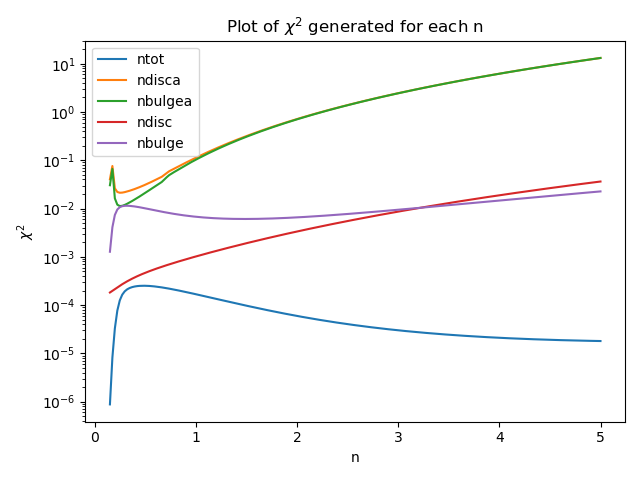
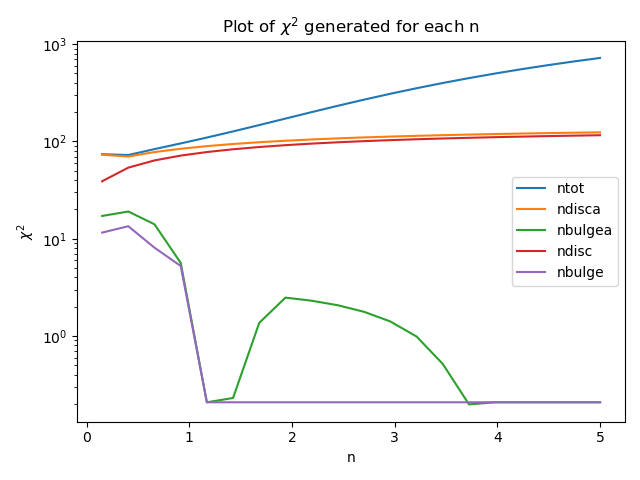
Fixed Chisqrd Plots

diff --git a/RadialProfile.py b/RadialProfile.py
@@ -30,7 +30,9 @@ def radial_profile(image, center):
 	nr=np.bincount(r.ravel()) #no in each radius bin
 	radialprofile=(tbin)/(nr)
 	stdbins, bin_edges, binnumber=stats.binned_statistic(r.ravel(),image.ravel(), 'std', bins=len(radialprofile))
-	stdbins[0]=stdbins[1]
+	countbins, bin_edges, binnumber=stats.binned_statistic(r.ravel(),image.ravel(), 'count', bins=len(radialprofile))
+	#stdbins=stdbins/countbins
+	stdbins[0:4]=np.max(stdbins)
 	stdbins[stdbins<0.01]=0.01
 	radialprofile, r_arr, binnumber=stats.binned_statistic(r.ravel(),image.ravel(), 'mean', bins=len(radialprofile))
 	return radialprofile, stdbins, r_arr, nr
@@ -164,7 +166,7 @@ def run_radial_profile(image, imagefile, sim_name):
 
 	
 	
-	poptdisca, pcovdisca=curve_fit(SersicProfilea, r[bindex:hindex], rad[bindex:hindex], p0=(i_e, r_e, 1,0), bounds=((i_e-1,r_e-0.1,0,0), (i_e+1,r_e+0.1,2,20)), sigma=stdbins[bindex:hindex], absolute_sigma=True)
+	poptdisca, pcovdisca=curve_fit(SersicProfilea, r[bhindex:hindex], rad[bhindex:hindex], p0=(i_e, r_e, 1,0), bounds=((i_e-1,r_e-0.1,0,0), (i_e+1,r_e+0.1,2,20)), sigma=stdbins[bhindex:hindex], absolute_sigma=True)
 	n_disca=poptdisca[2]
 	print("I_edisca={}, R_edisca={}, n_disca={}, adisca={}".format(poptdisca[0], poptdisca[1], n_disca, poptdisca[3]))
 	isolated_discsima=SersicProfilea(r, poptdisca[0], poptdisca[1],n_disca,poptdisca[3])
@@ -209,27 +211,41 @@ def run_radial_profile(image, imagefile, sim_name):
 	nbulgea=[]
 	ntot=[]
 	chistot=[]
-	for n in np.linspace(0.15,5.0, 200):
+	for n in np.linspace(0.15,5.0, 100):
 		n1, pcov1 = curve_fit(lambda x,n: SersicProfile(x, i_e, r_e, n), r, rad, p0=n, bounds=(n-0.001,n+0.001), sigma=stdbins, absolute_sigma=True)
 		n1=n1[0]
-		n1_error=pcov1[0,0]
-
-		poptdisc, pcovdisc = curve_fit(lambda x,n: SersicProfile(x, i_e, r_e, n), r[bindex:bhindex], rad[bindex:bhindex], sigma=stdbins[bindex:bhindex], p0=n, bounds=(n-0.001,n+0.001), absolute_sigma=True)
+		res= rad - SersicProfile(r, i_e,r_e,n)
+		n1_error=np.sqrt(sum((res[bindex:bhindex]/stdbins[bindex:bhindex])**2))
+		#n1_error=pcov1[0,0]
+		
+		poptdisc, pcovdisc = curve_fit(lambda x,ni: SersicProfile(x, i_e, r_e, ni), r[bhindex:hindex], rad[bhindex:hindex], sigma=stdbins[bhindex:hindex], p0=n, bounds=(n-0.001,n+0.001), absolute_sigma=True)
 		n_disc=poptdisc[0]
-		n_disc_error=pcovdisc[0,0]
-		poptbulge, pcovbulge = curve_fit(lambda x,n: SersicProfile(x, i_ebulge, r_ebulge, n), r[0:bindex], isolated_bulge[0:bindex],p0=n, sigma=stdbins[0:bindex], bounds=(n-0.001,n+0.001), absolute_sigma=True)
+		#n_disc_error=pcovdisc[0,0]	
+		isolated_discsim=SersicProfile(r, i_e, r_e, n)
+		res= rad- isolated_discsim
+		n_disc_error=np.sqrt(sum((res[bhindex:hindex]/stdbins[bhindex:hindex])**2))
+		poptbulge, pcovbulge = curve_fit(lambda x,ni: SersicProfile(x, i_ebulge, r_ebulge, ni), r[0:bindex], isolated_bulge[0:bindex], sigma=stdbins[0:bindex], p0=n, bounds=(n-0.001,n+0.001), absolute_sigma=True)
 		n_bulge= poptbulge[0]
-		n_bulge_error= pcovbulge[0,0]
-	
+		#n_bulge_error= pcovbulge[0,0]
+		res= rad - SersicProfile(r, i_ebulge, r_ebulge, n_bulge)
+		n_bulge_error=np.sqrt(sum((res[0:int(bindex/2)]/stdbins[0:int(bindex/2)])**2))
+		
 		poptdisca, pcovdisca=curve_fit(SersicProfilea, r[bindex:hindex], rad[bindex:hindex], p0=(i_e, r_e, n,0), bounds=((i_e-1,r_e-0.1,n-0.001,0), (i_e+1,r_e+0.1,n+0.001,20)), sigma=stdbins[bindex:hindex], absolute_sigma=True)
 		n_disca=poptdisca[2]
-		n_disc_errora=pcovdisca[2,2]
+		#n_disc_errora=pcovdisca[2,2]
+		isolated_discsima=SersicProfilea(r, poptdisca[0], poptdisca[1],n_disca,poptdisca[3])
+		res= rad - isolated_discsim
+		n_disc_errora=np.sqrt(sum((res[bhindex:hindex]/stdbins[bhindex:hindex])**2))
+
+		isolated_bulgea= rad - isolated_discsima
+		isolated_bulgea[isolated_bulgea<0]=0
+		i_ebulgea, r_ebulgea, centralbrightnessbulgea, totalbrightnessbulgea= findeffectiveradius(isolated_bulgea[0:bhindex], r[0:bhindex], nr[0:bhindex]) 
 		poptbulgea, pcovbulgea=curve_fit(SersicProfilea, r[0:bindex], isolated_bulgea[0:bindex], p0=(i_ebulgea, r_ebulgea, n,0), bounds=((i_ebulgea-1,r_ebulgea-0.1,n-0.001,0), (i_ebulgea+1,r_ebulgea+0.1,n+0.001,20)), sigma=stdbins[0:bindex], absolute_sigma=True)
 		n_bulgea= poptbulgea[2]
-		n_bulge_errora=pcovdisca[2,2]
-
-		#res= r[bindex:hindex] - isolated_discsim[bindex:hindex]
-		#chi=np.sqrt(sum((res/stdbins[bindex:hindex])**2))
+		#n_bulge_errora=pcovdisca[2,2]
+		res= rad - SersicProfilea(r, i_ebulgea, r_ebulgea, n_bulgea, poptbulgea[3])
+		n_bulge_errora=np.sqrt(sum((res[0:int(bindex/2)]/stdbins[0:int(bindex/2)])**2))
+		
 		chisdisc.append(n_disc_error)
 		chisbulge.append(n_bulge_error)
 		ndisc.append(n_disc)
@@ -242,12 +258,12 @@ def run_radial_profile(image, imagefile, sim_name):
 		chistot.append(n1_error)
 	chisdisca=np.array(chisdisca)
 	plt.plot(ntot, chistot, label='ntot')
-	plt.plot(ndisca, chisdisca+0.01, label='ndisca')
+	plt.plot(ndisca, chisdisca+0.5, label='ndisca')
 	plt.plot(nbulgea, chisbulgea,label='nbulgea')
 	plt.plot(ndisc, chisdisc, label='ndisc')
 	plt.plot(nbulge, chisbulge,label='nbulge')
-	plt.legend()
-	plt.yscale('log')
+	plt.legend(), plt.xlim(0), plt.ylim(0)
+	#plt.yscale('log')
 	plt.xlabel('n'), plt.ylabel('$\chi ^2$')#, plt.ylim(0,0.025)
 	plt.title('Plot of $\chi ^2$ generated for each n')
 	plt.tight_layout()
@@ -369,7 +385,7 @@ def run_radial_profile(image, imagefile, sim_name):
 
 if __name__ == "__main__":
 	sim_name=['RecalL0025N0752','']
-	imagefileRecalL0025N0752=['RecalL0025N0752galface_646493.png','']
+	imagefileRecalL0025N0752=['RecalL0025N0752galface_726306.png','']
 	#sim_name=['RecalL0025N0752', 'RefL0025N0376','RefL0050N0752']
 	#imagefileRecalL0025N0752=['RecalL0025N0752galface_646493.png','RecalL0025N0752galface_737885.png','RecalL0025N0752galface_746518.png','RecalL0025N0752galface_853401.png','RecalL0025N0752galface_4938.png','RecalL0025N0752galface_621500.png','RecalL0025N0752galface_726306.png','RecalL0025N0752galface_51604.png']
 	imagefileRefL0025N0376=['RefL0025N0376galface_1.png','RefL0025N0376galface_135107.png','RefL0025N0376galface_154514.png','RefL0025N0376galface_160979.png','RefL0025N0376galface_172979.png']
